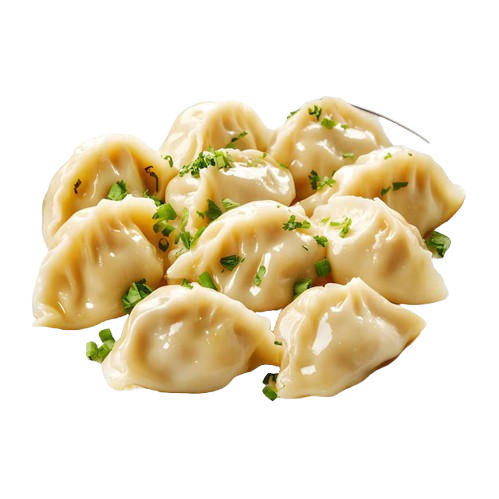
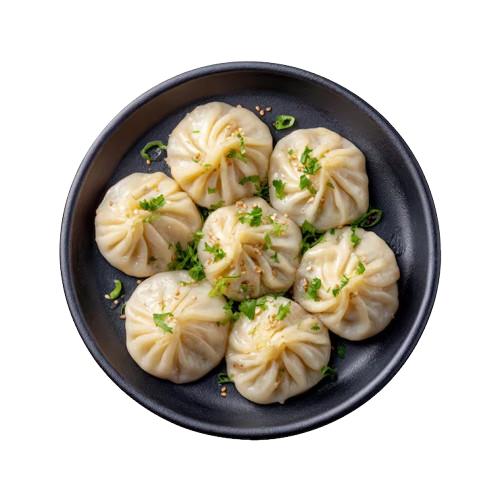
dumpling image change

diff --git a/src/app/components/LandingPage.tsx b/src/app/components/LandingPage.tsx
@@ -362,7 +362,7 @@ export default function Home() {
               <div className="absolute bottom-[12%] right-[-3%] w-28 h-28 lg:w-36 lg:h-36 z-30 animate-rotate-slight">
                 <img src={pizzaImg.src} alt="Pizza" className="w-full h-full object-contain drop-shadow-[0_16px_24px_rgba(0,0,0,0.18)]" />
               </div>
-              <div className="absolute top-[28%] left-[-4%] sm:left-[-8%] w-20 h-20 lg:w-24 lg:h-24 z-30 animate-bounce-subtle">
+              <div className="absolute top-[28%] left-[2%] sm:left-[-2%] w-28 h-28 lg:w-32 lg:h-32 z-30 animate-bounce-subtle">
                 <img src={dumplingsImg.src} alt="Dumplings" className="w-full h-full object-contain drop-shadow-[0_12px_18px_rgba(0,0,0,0.12)]" />
               </div>
 
